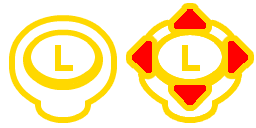
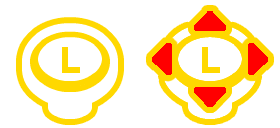
汚れの移動範囲を調整、口の画像を変更

diff --git a/StageBrushTeeth/Task_StainManager.cpp b/StageBrushTeeth/Task_StainManager.cpp
@@ -45,7 +45,7 @@ namespace  StainManager
 	//-------------------------------------------------------------------
 	void Object::Positionalise(int PlayerNum)
 	{
-		const int num = 200;
+		const int num = 170;
 		ML::Vec2 pos[][2] = {
 			{ ML::Vec2(0.f, 0.f), ML::Vec2(1980 / 2, 1080 / 2) },
 			{ ML::Vec2(1980 / 2, 0.f), ML::Vec2(1980, 1080 / 2) },
@@ -56,10 +56,10 @@ namespace  StainManager
 		const int max = 1;
 
 		/*ML::Box2D StainArea(PlayerNum % 2 * (1980 / 2), PlayerNum / 2 * (1080 / 2), (1980 / 2), (1080 / 2));*/
-		minPosX = pos[PlayerNum][min].x + num + 30;//StainArea.x;
-		minPosY = pos[PlayerNum][min].y + num;//StainArea.y;
-		maxPosX = pos[PlayerNum][max].x - 16 - num -30;//StainArea.x + StainArea.w - 32;
-		maxPosY = pos[PlayerNum][max].y - 16 - num;//StainArea.y + StainArea.h - 32;
+		minPosX = pos[PlayerNum][min].x + num + 40;//StainArea.x;
+		minPosY = pos[PlayerNum][min].y + num - 50;//StainArea.y;
+		maxPosX = pos[PlayerNum][max].x - 16 - num - 40;//StainArea.x + StainArea.w - 32;
+		maxPosY = pos[PlayerNum][max].y - 16 - num + 100;//StainArea.y + StainArea.h - 32;
 	}
 	//-------------------------------------------------------------------
 	void Object::CreateStain()

diff --git a/StageAlarmClock/Task_StageAlarmClock.cpp b/StageAlarmClock/Task_StageAlarmClock.cpp
@@ -18,7 +18,7 @@ namespace  StageAlarmClock
 	bool  Resource::Initialize()
 	{
 		this->bgImg = DG::Image::Create("./data/image/heya_blue.jpg");
-		this->controllerMark = DG::Image::Create("./data/image/LeftStickDown.png");
+		this->controllerMark = DG::Image::Create("./data/image/LeftStickDown_new.png");
 		this->PlayerNum = DG::Image::Create("./data/image/PlayerNumber.png");
 		ge->debugRectLoad();
 		return true;

diff --git a/StageAlarmClock/Task_Clock.h b/StageAlarmClock/Task_Clock.h
@@ -58,5 +58,7 @@ namespace  Clock
 		int animCnt;
 		int animIndex;
 		int animLine;
+
+		int id;
 	};
 }
